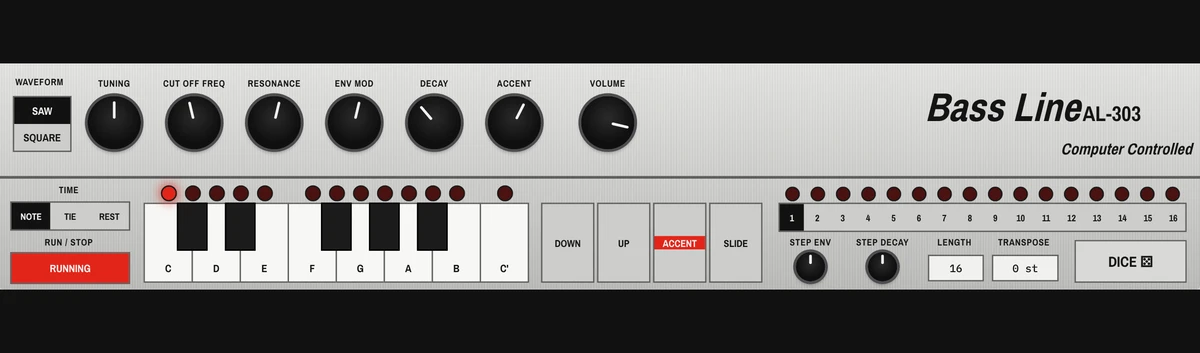
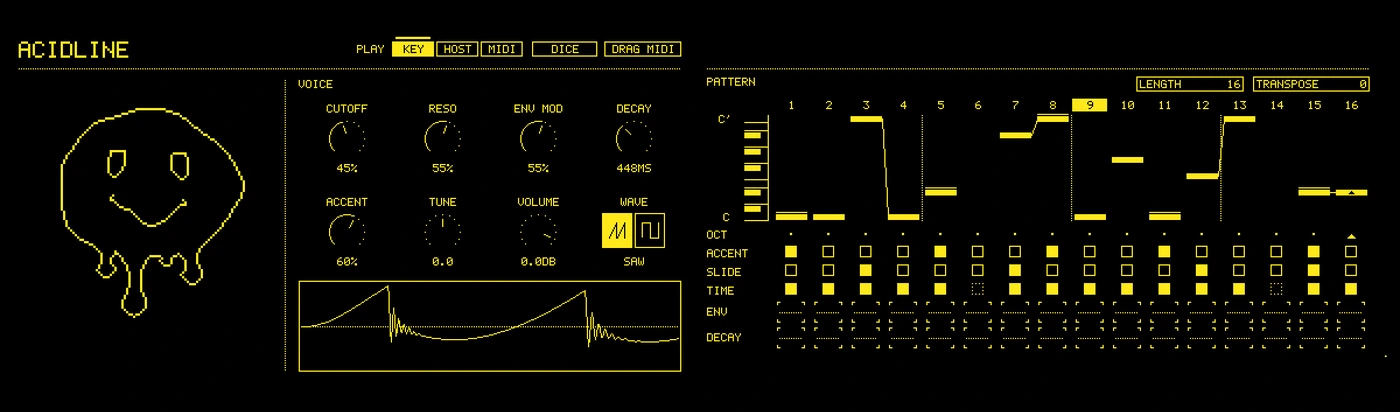
Store: AcidLine image shows the new plugin with both modules side by side (#46)
Claude-Session: https://claude.ai/code/session_01XuYwrZiNfd7NJJevwL3agE

diff --git a/plugins/store.js b/plugins/store.js
@@ -35,7 +35,7 @@
       tag: "303-style acid sequencer",
       text: "A TB-303 style acid bass with its own 16-step sequencer. Squelchy, rubbery, and full of surprises.",
       formats: ["AU", "VST3 (Mac + Windows)", "Max for Live"],
-      img: "img/acidline.webp?v=3"
+      img: "img/acidline.webp?v=4"
     },
     {
       key: "blipsynth",

diff --git a/plugins/index.html b/plugins/index.html
@@ -51,7 +51,7 @@
 </div>
 
 <script src="config.js?v=1"></script>
-<script src="store.js?v=6"></script>
+<script src="store.js?v=7"></script>
 <script src="../fx/vhs-glitch.js?v=23"></script>
 </body>
 </html>
